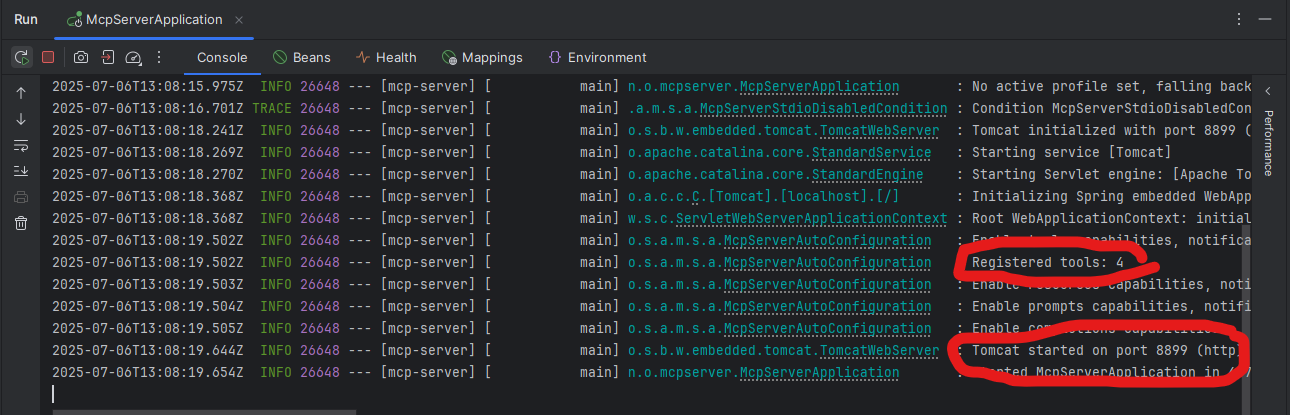
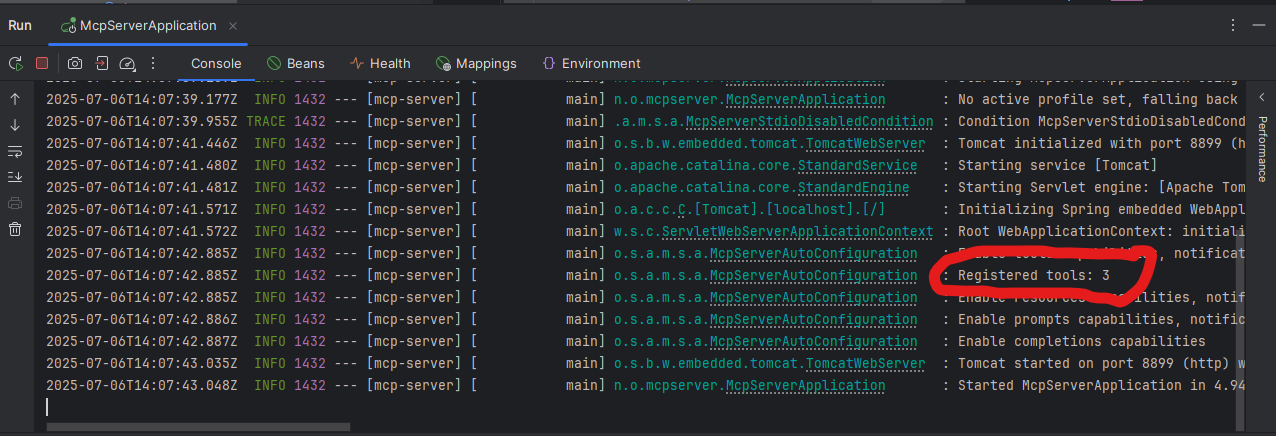
test avec postman , protocol http et mcp

Changed region(s): [[0.0, 0.0, 1.0, 1.0], [0.3973, 0.0, 0.7641, 0.0289], [0.9781, 0.0289, 1.0, 0.0578]]

diff --git a/mcp-server/src/main/java/net/ourahma/mcpserver/tools/StockTools.java b/mcp-server/src/main/java/net/ourahma/mcpserver/tools/StockTools.java
@@ -18,7 +18,7 @@ public class StockTools {
         return this.companies;
     }
 
-    @Tool
+
     public void setAllCompanies(List<Company> companies) {
         this.companies = companies;
     }
